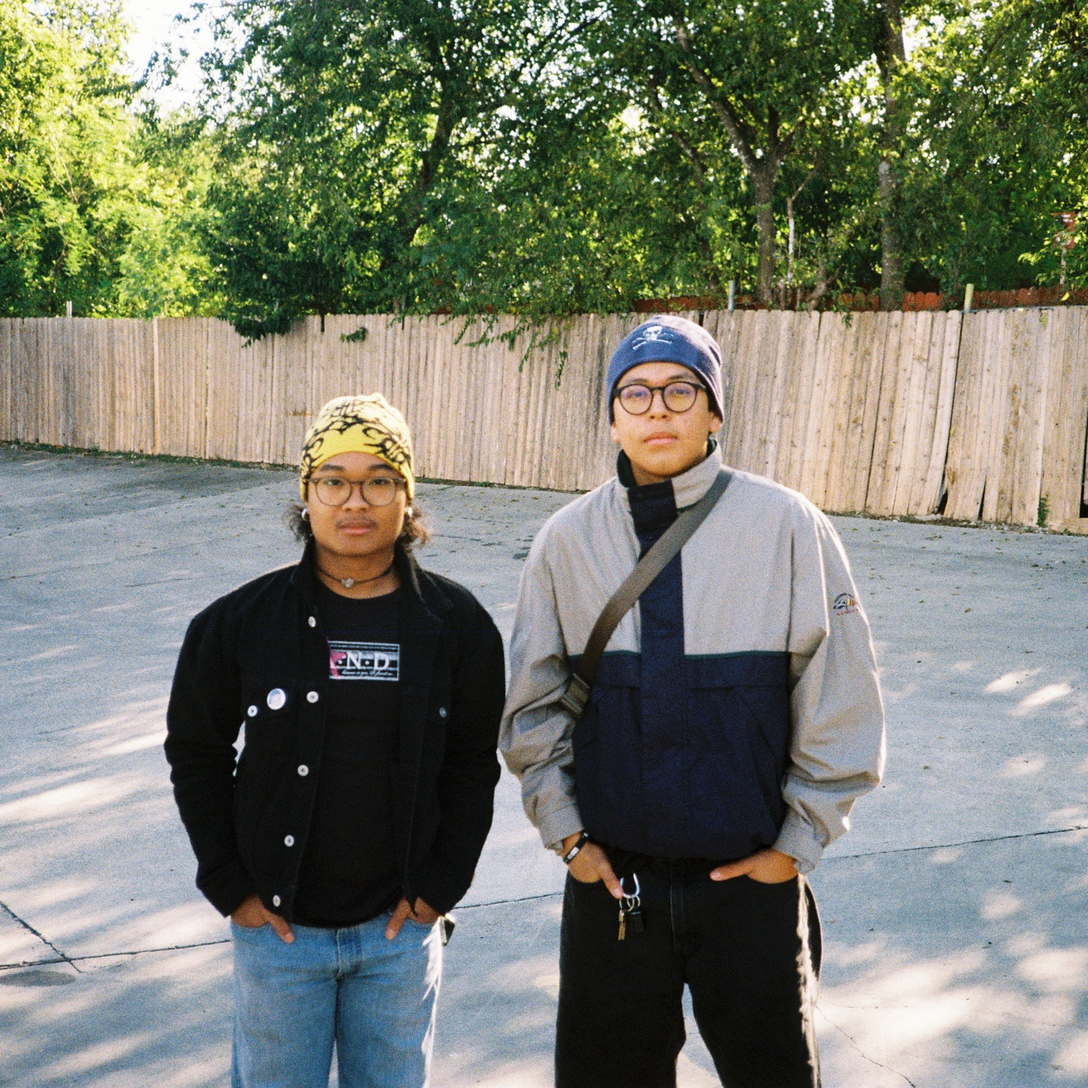
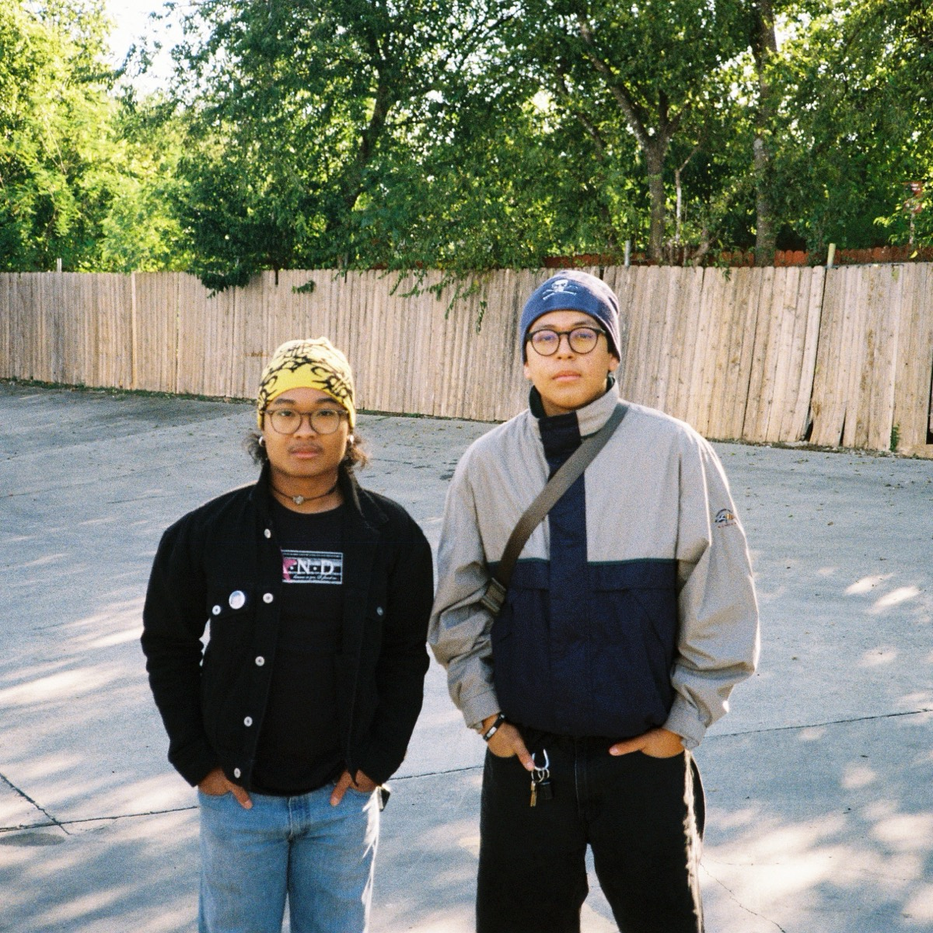
3D Polaroid on phones and tablets, by touch; availability says both
- Phones and tablets get the same Polaroid as desktop: swipe to scroll past
  it, drag sideways to spin it, arrows and film-strip grid, tap to open, draw
  with a finger, stick stamps. On a phone the open print fills the width
  with the stamps in a row under it
- Film photos re-exported smaller (4.7 MB to 2.8 MB)
- Link preview and home page now say: Summer 2027 internships and full-time
  roles after December 2027
- scripts/check-touch.mjs tests all of the touch behavior on five sizes

diff --git a/src/components/Polaroid3D.tsx b/src/components/Polaroid3D.tsx
@@ -13,7 +13,9 @@ import { Environment, Lightformer, RoundedBox, useTexture } from '@react-three/d
 //   Done, Esc, or clicking off it puts it back, with your writing still on it.
 // - The arrows under it go to the next / previous photo: the one showing slides off to the side turning edge-on, and the
 //   new one comes round from the other side. One print is on screen at a time; each keeps its own writing.
-// Only loaded on desktops (see Work.tsx); phones and reduced motion keep the flat version.
+// Phones and tablets get it too, by touch: drag sideways to spin (up and down still scrolls the page), tap to open,
+// write with a finger. On a narrow screen the open print sits higher with the tools in a row under it.
+// Loaded wherever there's WebGL and motion is allowed (see Work.tsx); everyone else keeps the flat version.
 
 // Real instant-film proportions (88 x 107 mm print, 79 x 79 mm picture), in scene units of 10 cm
 const W = 0.88, H = 1.07, D = 0.014
@@ -51,6 +53,8 @@ const STK_CW = 1536, STK_CH = Math.round(STK_CW * H / W) // the sticker layer: a
 const STAMP_PX = 208 // a sticker's size on that canvas
 
 const ROLL_TILT = [-2.5, 1.5, -1, 2.5, 1, -2, 2, -1.5] // each print in the all-photos grid sits a little crooked
+const TOUCH = typeof matchMedia !== 'undefined' && matchMedia('(pointer: coarse)').matches
+const PHONE = 640 // px: at this window width and under, the open print uses the phone layout
 const SLIDE = 0.7 // seconds for one print to slide out and the next to slide in
 
 type Mode = 'rest' | 'write'
@@ -259,7 +263,8 @@ function Prints({ slot, mode, setMode, inks, index, dir, stamp, onReady, onClose
 
   const mouse = useRef({ x: -1e4, y: -1e4 })
   useEffect(() => {
-    const m = (e: PointerEvent) => { mouse.current.x = e.clientX; mouse.current.y = e.clientY }
+    // only a mouse hovers: a finger's last position would otherwise leave the print "hovered" (leaning, never idle)
+    const m = (e: PointerEvent) => { if (e.pointerType === 'mouse') { mouse.current.x = e.clientX; mouse.current.y = e.clientY } }
     addEventListener('pointermove', m, { passive: true })
     return () => removeEventListener('pointermove', m)
   }, [])
@@ -296,21 +301,26 @@ function Prints({ slot, mode, setMode, inks, index, dir, stamp, onReady, onClose
       const now = performance.now(), dt = Math.max(8, now - st.lastT) / 1000
       st.lastX = ev.clientX; st.lastY = ev.clientY; st.lastT = now
       st.moved += Math.abs(dx) + Math.abs(dy)
-      const k = 6 / Math.max(900, size.width)
+      const k = 6 / Math.max(420, size.width) // a drag across most of the window is one full turn; on a phone, a thumb's sweep is half a turn
       c.yaw += dx * k
       c.vel = c.vel * 0.4 + (dx * k / dt) * 0.6
       c.pitch = THREE.MathUtils.clamp(c.pitch + dy * k * 0.6, -0.6, 0.6)
       if (!st.spun && st.moved > 5) st.spun = true // spun once: no more twist hints
     }
+    const touch = e.nativeEvent.pointerType !== 'mouse'
+    const done = () => { removeEventListener('pointermove', move); removeEventListener('pointerup', up); removeEventListener('pointercancel', cancel) }
     const up = () => {
-      removeEventListener('pointermove', move); removeEventListener('pointerup', up)
+      done()
       if (!st.dragging) return // the photo was changed mid-drag
       st.dragging = false
       if (performance.now() - st.lastT > 80) c.vel = 0
       c.vel = THREE.MathUtils.clamp(c.vel, -18, 18)
-      if (st.moved < 5) { c.vel = 0; setMode('write') }
+      if (st.moved < (touch ? 12 : 5)) { c.vel = 0; setMode('write') } // a tap (a finger is never perfectly still)
     }
-    addEventListener('pointermove', move); addEventListener('pointerup', up)
+    // On a touch screen, a drag that turns out to be up-and-down is taken over by the browser to scroll the page
+    // (the photo's slot allows that: touch-action pan-y). The press ends there: no spin, and it's not a tap
+    const cancel = () => { done(); st.dragging = false; c.vel = 0 }
+    addEventListener('pointermove', move); addEventListener('pointerup', up); addEventListener('pointercancel', cancel)
   }
 
   // Presses on the open print land on one sheet over its whole front. With a stamp picked, a press anywhere
@@ -328,8 +338,8 @@ function Prints({ slot, mode, setMode, inks, index, dir, stamp, onReady, onClose
     const p = toInk(e)
     if (!p || p[0] < 0 || p[0] > INK_CW || p[1] < 0 || p[1] > INK_CH) return
     inks[i].start(p[0], p[1])
-    const up = () => { inks[i].end(); removeEventListener('pointerup', up) }
-    addEventListener('pointerup', up)
+    const up = () => { inks[i].end(); removeEventListener('pointerup', up); removeEventListener('pointercancel', up) }
+    addEventListener('pointerup', up); addEventListener('pointercancel', up)
   }
   const frontMove = (i: number, e: ThreeEvent<PointerEvent>) => {
     if (!writing || !inks[i].drawing()) return
@@ -359,8 +369,13 @@ function Prints({ slot, mode, setMode, inks, index, dir, stamp, onReady, onClose
       restY = -(r.top + r.height / 2 - (cr.top + cr.height / 2))
       restPx = Math.min(r.height / H, r.width / W)
     }
-    // open: 80% of the window's height, or less in a narrow window, where it leaves room beside it for the tools
-    const bigPx = Math.min((cr.height * 0.8) / H, Math.max(120, cr.width - 200) / W)
+    // Open: 80% of the window's height, or less in a narrow window, where it leaves room beside it for the tools.
+    // On a phone-width screen (PHONE and under) there's no room beside it at all: it fills the width, sits higher,
+    // and the tools go in a row under it (the CSS does the same switch at the same width)
+    const phone = cr.width <= PHONE
+    // (the phone numbers: 140px at the bottom is the tools row plus the Clear / Done bar; the print gets the rest)
+    const bigPx = phone ? Math.min((cr.height - 176) / H, (cr.width - 28) / W) : Math.min((cr.height * 0.8) / H, Math.max(120, cr.width - 200) / W)
+    const lift = phone ? 62 / cr.height : 0.035 // how far above the middle of the window the open print sits
     // Opening and closing ride one spring (a soft start, a quick middle, and it settles without a bounce), and
     // everything else about the move hangs off it: where the print is, how big, and how much of its resting
     // float, sway and lean are left. So it reads as one motion instead of several things easing separately
@@ -369,7 +384,7 @@ function Prints({ slot, mode, setMode, inks, index, dir, stamp, onReady, onClose
     st.open += st.openV * step
     const o = st.open
     const px2 = restPx * Math.pow(bigPx / restPx, o) // grows by proportion, so the size change looks even throughout
-    place.current.position.set(restX * (1 - o) * ux, (restY * (1 - o) + cr.height * 0.035 * o) * uy, 0)
+    place.current.position.set(restX * (1 - o) * ux, (restY * (1 - o) + cr.height * lift * o) * uy, 0)
     place.current.scale.set(px2 * ux, px2 * uy, px2 * uy)
 
     // Lean toward the cursor, measured from the card's own centre. "Hovering" is judged against the flat card's
@@ -669,7 +684,7 @@ export default function Polaroid3D({ slot, onReady }: { slot: RefObject<HTMLElem
       )}
       {(
         <div className={`p3d-hud${writing ? ' is-open' : ''}`} inert={!writing} role="dialog" aria-label="Write on the Polaroid">
-          <span>{tool ? 'Click anywhere on it to stick it down' : 'Write on the bottom with your cursor'}</span>
+          <span>{tool ? (TOUCH ? 'Tap it to stick it down' : 'Click anywhere on it to stick it down') : (TOUCH ? 'Draw on the bottom' : 'Write on the bottom with your cursor')}</span>
           <button type="button" className="is-ghost" onClick={ink.clear}>Clear</button>
           <button type="button" onClick={close}>Done</button>
         </div>

diff --git a/src/index.css b/src/index.css
@@ -875,7 +875,7 @@ button.tile-cover:hover .tile-media :is(img, video) { scale: 1.03; transition-du
    it still works; the print inside lines up with the flat Polaroid's spot in the hero. While writing, the canvas
    lifts above the nav with a dim backdrop behind it */
 .polaroid.is-ghost .polaroid-card { visibility: hidden; }
-.polaroid.is-ghost { cursor: pointer; }
+.polaroid.is-ghost { cursor: pointer; touch-action: pan-y; } /* by touch: sideways drags spin the print, up and down still scrolls the page */
 .p3d-stage { z-index: 15; pointer-events: none; } /* at rest: an absolute box in the page (set inline) */
 /* The canvas always fills the stage straight away. Left alone it keeps its old pixel size (pinned top-left) for a
    few frames after the stage switches between the box and the whole window, which cut the print off as it opened */
@@ -893,16 +893,18 @@ button.tile-cover:hover .tile-media :is(img, video) { scale: 1.03; transition-du
 .p3d-sr { position: absolute; width: 1px; height: 1px; overflow: hidden; clip-path: inset(50%); white-space: nowrap; }
 .p3d-nav .p3d-nav-roll { width: 66px; }
 .p3d-nav .p3d-nav-roll svg { width: 44px; rotate: -4deg; transition: rotate .3s var(--ease), scale .3s var(--ease); }
-.p3d-nav .p3d-nav-roll:hover svg { rotate: 4deg; scale: 1.08; }
+@media (hover: hover) and (pointer: fine) { .p3d-nav .p3d-nav-roll:hover svg { rotate: 4deg; scale: 1.08; } }
 .p3d-nav button { display: grid; place-items: center; width: 68px; height: 48px; color: var(--muted); border-radius: 8px; transition: color .2s, translate .25s var(--ease); }
 .p3d-nav button svg { width: 48px; height: auto; }
-.p3d-nav button:hover { color: var(--fg); }
-.p3d-nav button:first-of-type:hover { translate: -4px 0; }
-.p3d-nav button:last-of-type:hover { translate: 4px 0; }
+@media (hover: hover) and (pointer: fine) {
+  .p3d-nav button:hover { color: var(--fg); }
+  .p3d-nav button:first-of-type:hover { translate: -4px 0; }
+  .p3d-nav button:last-of-type:hover { translate: 4px 0; }
+}
 .p3d-nav button:active { scale: .94; }
 .p3d-nav button:focus-visible { outline: 2px solid var(--accent); outline-offset: 2px; }
 .p3d-backdrop { position: fixed; inset: 0; z-index: 60; background: rgb(10 10 10 / .82); opacity: 0; pointer-events: none; transition: opacity .45s var(--ease); }
-.p3d-backdrop.is-open { opacity: 1; pointer-events: auto; }
+.p3d-backdrop.is-open { opacity: 1; pointer-events: auto; touch-action: none; } /* a finger on the open print draws; it doesn't scroll or zoom the page */
 .p3d-hud {
   position: fixed; left: 50%; bottom: 28px; z-index: 62; transform: translateX(-50%); display: flex; align-items: center; gap: 12px;
   padding: 8px 8px 8px 18px; border-radius: 999px; background: rgb(28 28 27 / .85); backdrop-filter: blur(8px);
@@ -979,8 +981,11 @@ button.tile-cover:hover .tile-media :is(img, video) { scale: 1.03; transition-du
 }
 .p3d-tools button svg { width: 20px; height: 20px; }
 .p3d-tools button span { display: block; transition: scale .2s var(--ease), rotate .2s var(--ease); }
-.p3d-tools button:hover { background: rgb(255 255 255 / .08); }
-.p3d-tools button:hover span { scale: 1.2; rotate: -8deg; }
+@media (hover: hover) and (pointer: fine) {
+  .p3d-tools button:hover { background: rgb(255 255 255 / .08); }
+  .p3d-tools button:hover span { scale: 1.2; rotate: -8deg; }
+  .p3d-tools button.is-on:hover { background: #f2eee5; }
+}
 .p3d-tools button.is-on { background: #f2eee5; color: #1d1a18; }
 .p3d-tools button:active { scale: .92; }
 .p3d-tools button:focus-visible { outline: 2px solid var(--accent); outline-offset: 1px; }
@@ -988,3 +993,14 @@ button.tile-cover:hover .tile-media :is(img, video) { scale: 1.03; transition-du
 .p3d-hud button { border-radius: 999px; padding: 8px 14px; background: #f2eee5; color: #1d1a18; font: 500 14px/1 var(--sans); }
 .p3d-hud button.is-ghost { background: transparent; color: var(--text); border: 1px solid rgb(255 255 255 / .2); }
 .p3d-hud button:hover { filter: brightness(1.08); }
+/* Phone-width screens (the same 640px switch as PHONE in Polaroid3D.tsx): the open print fills the width and sits
+   higher, so the tools become a row under it that scrolls sideways, with the Clear / Done bar under that */
+@media (max-width: 640px) {
+  .p3d-tools {
+    top: auto; bottom: calc(74px + env(safe-area-inset-bottom)); left: 50%; transform: translateX(-50%);
+    flex-direction: row; max-width: calc(100vw - 20px); max-height: none; overflow: auto hidden;
+  }
+  .p3d-tools:not(.is-open) { translate: 0 14px; } /* closed: tucked down a little (it slides up as it opens) */
+  .p3d-tools-rule { width: 1px; height: 22px; margin: 0 5px; }
+  .p3d-hud { bottom: calc(14px + env(safe-area-inset-bottom)); }
+}

diff --git a/index.html b/index.html
@@ -8,12 +8,12 @@
     <link rel="apple-touch-icon" href="/apple-touch-icon.png" />
     <meta name="viewport" content="width=device-width, initial-scale=1.0" />
     <title>Christopher Tran — Product Designer</title>
-    <meta name="description" content="Christopher Tran is a product designer who cares about storytelling, solving ambiguous problems, and visual polish. Looking for Summer 2027 product design internships." />
+    <meta name="description" content="Christopher Tran is a product designer who cares about storytelling, solving ambiguous problems, and visual polish. Open to Summer 2027 product design internships and full-time roles after graduating in December 2027." />
     <link rel="canonical" href="https://christophertran.xyz/" />
     <meta property="og:type" content="website" />
     <meta property="og:site_name" content="Christopher Tran" />
     <meta property="og:title" content="Christopher Tran — Product Designer" />
-    <meta property="og:description" content="Christopher Tran is a product designer who cares about storytelling, solving ambiguous problems, and visual polish. Looking for Summer 2027 product design internships." />
+    <meta property="og:description" content="Christopher Tran is a product designer who cares about storytelling, solving ambiguous problems, and visual polish. Open to Summer 2027 product design internships and full-time roles after graduating in December 2027." />
     <meta property="og:url" content="https://christophertran.xyz/" />
     <meta name="twitter:card" content="summary" />
     <!-- The site is dark-only (no theme switch) -->

diff --git a/src/data.ts b/src/data.ts
@@ -5,7 +5,7 @@ export const profile = {
   location: 'Dallas, TX',
   email: 'christophertran2005@gmail.com',
   resume: 'https://drive.google.com/file/d/1HsIvZXTdCg23kK9ESxY5pnEG8CAijosg/view?usp=sharing',
-  status: 'Open to full-time roles after I graduate in December 2027.',
+  status: 'Open to Summer 2027 internships and full-time roles after I graduate in December 2027.',
   // The About page's intro: the personal side (the home hero covers the work side)
   aboutIntro: [
     "I grew up surrounded by creativity. My older brothers introduced me to music when I was very young, and some of my earliest memories are of dancing for as long as my little legs could handle. From there I grew up playing music, drawing, and making my own little YouTube videos, and that creative spark never dulled. When my oldest brother introduced me to design, my worlds collided: my love for computers and technology blended with art and creativity. I saw the beauty in creating polished work that could impact billions of people, and that’s what made me want to work in tech.",

diff --git a/src/components/Work.tsx b/src/components/Work.tsx
@@ -5,12 +5,13 @@ import { imgAt, linkProps, profile, projects, type Project } from '../data'
 import { caseStudies } from '../caseStudies'
 import Peek from './Peek'
 import Polaroid from './Polaroid'
-// The 3D Polaroid only loads on desktops with a mouse, WebGL, and motion allowed; everyone else keeps the flat one.
+// The 3D Polaroid loads wherever there's WebGL and motion is allowed, phones and tablets included (it works by touch);
+// everyone else keeps the flat one.
 // It's a separate download, fetched after the page is up, so it never slows the first paint
 const Polaroid3D = lazy(() => import('./Polaroid3D'))
 const can3D = (() => {
   if (typeof window === 'undefined') return false
-  if (!matchMedia('(hover: hover) and (pointer: fine)').matches || matchMedia('(prefers-reduced-motion: reduce)').matches) return false
+  if (matchMedia('(prefers-reduced-motion: reduce)').matches) return false
   try { return !!document.createElement('canvas').getContext('webgl2') } catch { return false }
 })()
 

diff --git a/.claude/agents/portfolio-loop.md b/.claude/agents/portfolio-loop.md
@@ -8,8 +8,9 @@ You run the feedback loop for Christopher Tran's portfolio (Vite + React, live a
 
 ## 1. Test the live site
 Run these from the repo root and keep the output:
-- `node scripts/check-site.mjs https://christophertran.xyz` : JavaScript errors, sideways scroll at phone / tablet / laptop / desktop, every work card opens on a phone, 3D Polaroid on desktop and the flat one on phones.
+- `node scripts/check-site.mjs https://christophertran.xyz` : JavaScript errors, sideways scroll at phone / tablet / laptop / desktop, every work card opens on a phone, 3D Polaroid on desktop and on phones.
 - `node scripts/check-hero.mjs https://christophertran.xyz reviews/shots` : the hero Polaroid, its arrows, the film-strip grid, and the open print with its tools, at eight window sizes. Screenshots land in reviews/shots; look at a few of them (Read shows images) rather than trusting the PASS lines alone.
+- `node scripts/check-touch.mjs https://christophertran.xyz reviews/shots` : the same hero by touch on four phone sizes and a tablet (scrolling past it, spinning it, opening it, drawing, stamps, the grid).
 - Walk the pages people actually visit (see the analytics below) in headless Chrome at 390px and 1440px: the home page, /info, /exploration, and the two or three most-visited case studies. `scripts/check-site.mjs` shows how to drive Chrome over the DevTools protocol. Look for: anything cut off or overlapping, broken or slow images and video, dead links, text that's hard to read, things that look clickable but aren't.
 - Check the addresses people land on that aren't real pages (analytics will show paths like /projects, /contact, /cosign, /backtrack). For each, fetch it and say whether it shows something useful, redirects, or is a dead end.
 A failing check is finding number one. Quote the failing line.
@@ -19,7 +20,7 @@ A failing check is finding number one. Quote the failing line.
 
 Look for sticking points, and always tie a number to something on the site:
 - **Drop-off**: what share of home-page visitors open any case study at all? Which case studies get opened and which almost never do? Look at where the ignored ones sit on the home page, their cover, and their title.
-- **Phones**: the share of visitors on phones against what phones actually get (for example, the hero Polaroid is flat on phones: no other photos, no arrows, no stickers). A big phone share plus a thinner phone experience is a finding.
+- **Phones**: the share of visitors on phones against what phones actually get, and how far down the first piece of work is on a phone. A big phone share plus a thinner or slower phone experience is a finding.
 - **Where people come from**: LinkedIn and direct visits are mostly recruiters and people he sent the link to. Is the first screen doing its job for them?
 - **Dead ends**: visits to addresses that don't exist.
 - **Change since last time**: what went up or down, and whether it lines up with something he shipped (read `git log --since="14 days ago" --oneline`).

diff --git a/CLAUDE.md b/CLAUDE.md
@@ -6,7 +6,7 @@ Vite + React 19 + TypeScript, deployed by Vercel from `main` to christophertran.
 - Ship with the `/ship` skill: build, `node scripts/check-site.mjs`, push, then `scripts/wait-deploy.sh`. Don't call something live until that last step passes.
 - Anything touching hover, scroll, or pointer events: test on a phone width too (the site check does this). Gate hover-only behavior behind `(hover: hover) and (pointer: fine)`.
 - Use the `design-review` agent after visual changes.
-- Changes to the hero Polaroid (the 3D print, its arrows, the film-strip grid, the open print and its stamps): also run `node scripts/check-hero.mjs`, which tests it at eight window sizes.
+- Changes to the hero Polaroid (the 3D print, its arrows, the film-strip grid, the open print and its stamps): also run `node scripts/check-hero.mjs` (eight desktop window sizes) and `node scripts/check-touch.mjs` (four phones and a tablet, with real touch events). Phones get the same 3D print, by touch.
 - The `portfolio-loop` agent is the feedback loop: it tests the live site, reads Vercel Web Analytics (`node scripts/analytics.mjs`), compares with its last report in `reviews/` (not committed), and says what to change next.
 - After every change, give Christopher honest, prioritized feedback, not just "done".
 
